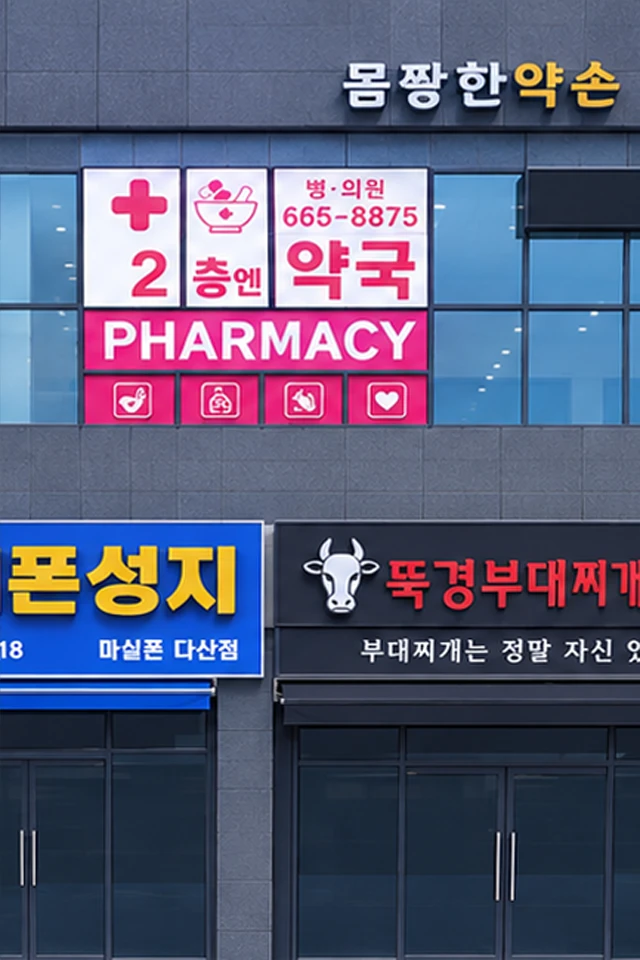
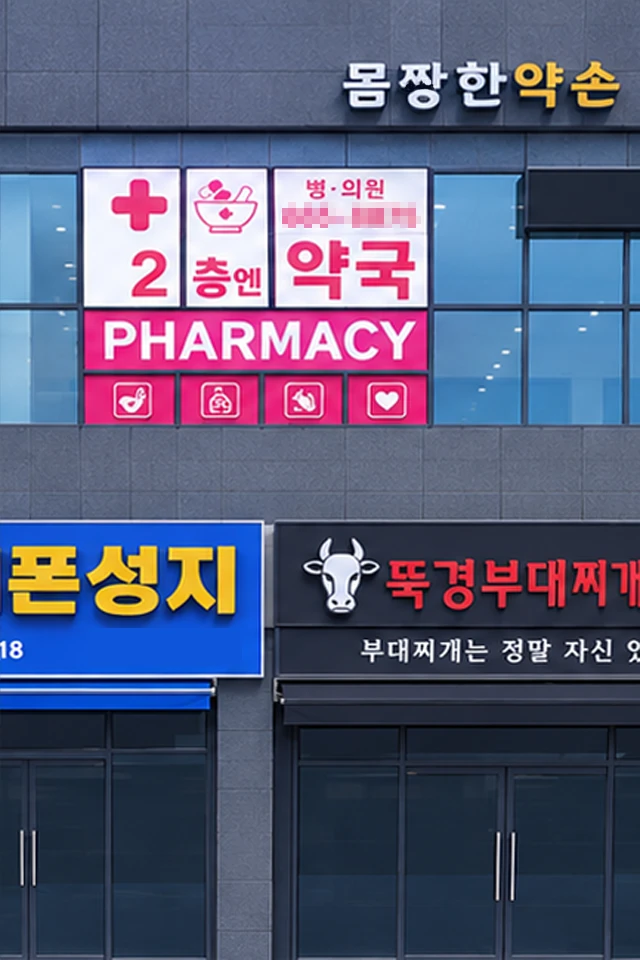
Fake buildings: the user's cleaned-up pictures for facades 1, 3, 6, 9 (D-614)

Changed region(s): [[0.4375, 0.1875, 0.6562, 0.25], [0.1562, 0.6562, 0.375, 0.6875], [0.625, 0.0625, 0.6875, 0.0938]]

diff --git a/docs/06_LOG/DECISIONS.md b/docs/06_LOG/DECISIONS.md
@@ -1080,3 +1080,4 @@ D-610 — (2026-10-30, user screenshots) Beach promenade benches (BenchBase + Pr
 D-611 — (2026-10-30, user: the speed works but treble / bass are not heard) The boosts were on but +6 dB on one band is hardly heard. Now the boosted band at the effect's most, +10 dB, and the other band -8 dB (treble: high +10 / low -8; bass: low +10 / high -8; both: high and low +10, mid -8). ClubConfig.BoostDb 10, CutDb 8.
 D-612 — (2026-10-30, user) The DJ's treble / bass boosts replaced by the pitch: 🔽 피치 (shows the value) / 🔼 피치 step x0.5, 0.75, 1, 1.25, 1.5, 1.75, 2 (ClubConfig.MusicPitches, Music action MusicPitch, attribute ClubMusicPitch, back to 1 when the DJ changes). The pitch is the one heard, apart from the speed: a PitchShiftSoundEffect with octave = pitch / speed (kept to 0.5..2, the effect's range; off at 1). Checked: speed 1.5 + pitch 0.75 → octave 0.5.
 D-613 — (2026-10-30, user: no music before a DJ, it should be random) Without a DJ the club now picks a random song each time (not the one just played; was: random first, then in order). The server loads each song once before playing it and skips songs that cannot play (track 12 is not approved by Roblox yet and played as almost two minutes of silence); a failed song is tried again after 10 minutes. A DJ choosing such a song gets "이 곡은 아직 재생할 수 없어요. (로블록스 승인 전)". Checked in Studio: tracks 1..11 playable, 12 not; a song plays with no DJ.
+D-614 — (2026-10-30, user) Four fake-building pictures swapped for the user's cleaned-up versions (phone numbers blurred, window papers plain): facade 1 (몸짱한약손 / 폰성지 / 부대찌개) 76291257130037, 3 (삼동산 / 휴대폰) 139940847407607, 6 (서울올림피아약국 / 모랑광사장) 74544890923170, 9 (bhc / 신신, left half) 129957945484608; docs/04_ART/facades/ updated. 21 pictures replaced in the place; all four load.

diff --git a/docs/06_LOG/WORKLOG.md b/docs/06_LOG/WORKLOG.md
@@ -2685,3 +2685,6 @@ See ISSUE-MOBILE-001: 7 layout fixes, synced to Studio. The running test session
 
 ### 2026-10-30 클럽 랜덤 재생 (D-613)
 - 매번 랜덤(방금 곡 제외). 서버가 곡을 미리 불러 보고 안 되는 곡은 건너뜀(12번 강남스타일: 로블록스 승인 전). DJ가 고르면 안내 문구.
+
+### 2026-10-30 가건물 이미지 교체 (D-614)
+- facade 1·3·6·9를 사용자 수정본(전화번호 흐림, 창문 종이 정리)으로 교체. 맵에서 21곳 바뀜, 4장 모두 로딩 확인.

diff --git a/docs/06_LOG/PROGRESS_BY_DATE.md b/docs/06_LOG/PROGRESS_BY_DATE.md
@@ -347,3 +347,4 @@
 - DJ 고음/저음 효과를 확실히 들리게(+10dB, 반대쪽 -8dB, D-611).
 - DJ 고음/저음 → 피치 ▼▲ x0.5~x2(속도와 따로, D-612).
 - DJ 없을 때 매번 랜덤 곡, 재생 안 되는 곡(승인 전) 건너뜀(D-613).
+- 가건물 이미지 4장 수정본으로 교체(1·3·6·9, D-614).
